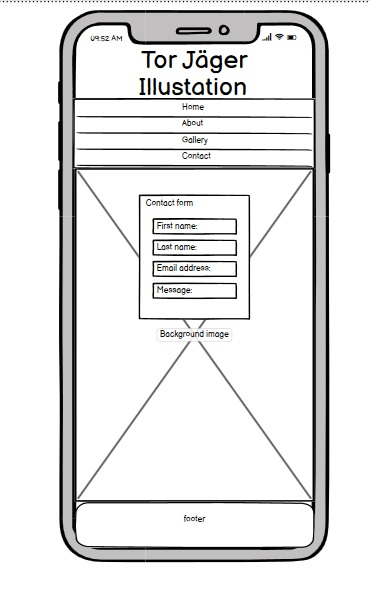
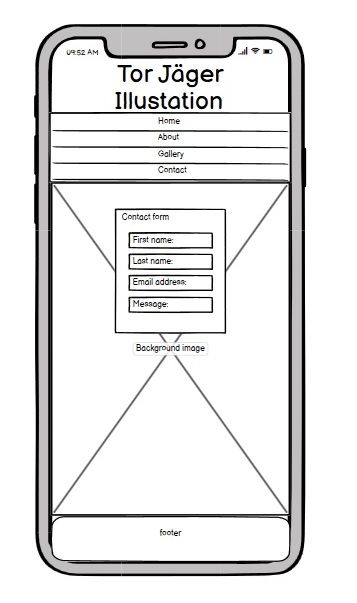
Adjust phone number in footer

diff --git a/contact.html b/contact.html
@@ -68,6 +68,7 @@
         <a href="https://sv-se.facebook.com/vasenboken/" target="_blank" rel="noopener" aria-label="Find us on Facebook (link opens in a new tab)"><i class="fab fa-facebook"></i></a>
         <a href="https://www.instagram.com/torjager/" target="_blank" rel="noopener" aria-label="Find us on Instagram (link opens in a new tab)"><i class="fab fa-instagram"></i></a>
         <a href="https://se.linkedin.com/in/tor-j%C3%A4ger-81718170" target="_blank" rel="noopener" aria-label="Find us on Linkedin (link opens in a new tab)"><i class="fab fa-linkedin"></i></a>
+        <span id="phonenumber">+46 704237879 <i class="fas fa-phone"></i></span>
         <br>
         <p>Copyright © Tor Jäger Illustration 2022</p>
     

diff --git a/gallery.html b/gallery.html
@@ -59,6 +59,7 @@
     <a href="https://sv-se.facebook.com/vasenboken/" target="_blank" rel="noopener" aria-label="Find us on Facebook (link opens in a new tab)"><i class="fab fa-facebook"></i></a>
     <a href="https://www.instagram.com/torjager/" target="_blank" rel="noopener" aria-label="Find us on Instagram (link opens in a new tab)"><i class="fab fa-instagram"></i></a>
     <a href="https://se.linkedin.com/in/tor-j%C3%A4ger-81718170" target="_blank" rel="noopener" aria-label="Find us on Linkedin (link opens in a new tab)"><i class="fab fa-linkedin"></i></a>
+    <span id="phonenumber">+46 704237879 <i class="fas fa-phone"></i></span>
     <br>
     <p>Copyright © Tor Jäger Illustration 2022</p>
 

diff --git a/README.md b/README.md
@@ -1,8 +1,8 @@
 ![Tor Jäger Welcome][def]
 
-# Welcome to Tor Jäger Illustration,  
+# Welcome to Tor Jäger Illustration!
 
-#### This website is created for the freelance illustrator Tor Jäger. The previous website torjager.net/torjager.se really needed some updates and a new fresh apporoach. Tor Jäger is based in Stockholm, Sweden, but clients could come from over the world so the site should be easy to read and inspiering. The goal of this site is to attract and connect with possible customers for illustration jobs, inspire people to read the books but also just inspire peolple who are scrolling through the site.
+#### This website is created for the freelance illustrator Tor Jäger. The previous website torjager.net/torjager.se really needed some updates and a new fresh apporoach. Tor Jäger is based in Stockholm, Sweden, but clients could come from all over the world so the site should be easy to read and inspiering. The goal of this site is to attract and connect with possible customers for illustration jobs, inspire people to read the books but also just inspire peolple who are scrolling through the site.
 #### [Deployed site](https://karasp1980.github.io/torjagerillustration/)
 ------
 ## Responsive
@@ -40,7 +40,7 @@
 ------
 ## Style
 
-#### The colors were chosen in order to have a good contrast between the white and #A43F2D chosen (+ the groove border) in order to make the site easy to read. The readibility was also checked on This site was built using [WebAIM](https://webaim.org/resources/contrastchecker) 
+#### The colors were chosen in order to have a good contrast between the white and #A43F2D chosen (+ the groove border) in order to make the site easy to read. The readibility was also checked on  [WebAIM](https://webaim.org/resources/contrastchecker) 
 ![WebAIM contrastchecker](/assets/images/webaim.png)
 
 ----
@@ -59,7 +59,7 @@
 ![Welcome image](/assets/images/welcome.jpeg)
 
 ### **Books:**
-#### The books-section presents three books which the illustrator has written/illustrated. The purpose should be to inspire to get inspired by a short presentation and get interest in reading these books.
+#### The books-section presents three books which the illustrator has written/illustrated. The purpose should be to get inspired by a short presentation and get interest in reading these books.
 ![Books section](/assets/images/bookssection.jpeg)
 
 ### **About:**
@@ -76,7 +76,7 @@
 
 
 ### **Footer:**
-#### The footer placed in the bottom of the page should also be standing in order for the viewer to easily get contact info. It contains links to the social media platforms facebook, instagram and linkedin as well as phone number.
+#### The footer placed in the bottom of the page should also be standing out in order for the viewer to easily get contact info. It contains links to the social media platforms facebook, instagram and linkedin as well as phone number.
 ![Footer](/assets/images/footer.jpg)
 
 -------
@@ -89,11 +89,6 @@
 #### I confirmed that the navigaton, header, about, gallery and contact are all readable and easy to understand.
 
 #### I confirmed that the form works requires entries in every field, will only accept one email in the email field and the submit buttom works.
-
--------
-
-## Bugs
-#### No bugs were noticed.
 
 ------
 
@@ -130,15 +125,6 @@ The link can be found here: [Deployed site](https://karasp1980.github.io/torjage
 
 -----
 
-## Credits
-
-#### A lot of content is reused from torjager.se/torjager.net, for instance som pictures and the about-text. Furhter material/pictures has been provided from the illustrator himself who has also given his appproval of using the material for this project. Some of the pictures are also published in his books.
-#### Inspiration and help has also come from the Code Institute projects "Coders coffeehouse" (https://learn.codeinstitute.net/sandbox/api/challenges/60338cca9c4983ac5d855130/files/index.html#home) and "Love Running" (https://karasp1980.github.io/love-running/).
-
-#### The website [W3Schools](https://www.w3schools.com/) has also been helpful.
-
-----
-
 ## Content
 
 #### The pictures on the site and in the gallery has been chosen in order to provide a variety of styles.
@@ -148,9 +134,18 @@ The link can be found here: [Deployed site](https://karasp1980.github.io/torjage
 
 ## Media
 
-#### All the images on this page are provided by the illustator Tor Jäger For the social media-links icons [Font Awesome](https://fontawesome.com) has been used.
+#### All the images on this page are provided by the illustator Tor Jäger For the social media-links icons [Font Awesome](https://fontawesome.com) has been used. The fonts come from [Google fonts](fonts.google.com).
 
 -----
+
+## Credits
+
+#### A lot of content is reused from torjager.se/torjager.net, for instance som pictures and the about-text. Furhter material/pictures has been provided from the illustrator Tor Jäger who has also given his appproval of using the material for this project. Some of the pictures are also published in his books.
+#### Inspiration and help has also come from the Code Institute projects [Coders coffeehouse](https://learn.codeinstitute.net/sandbox/api/challenges/60338cca9c4983ac5d855130/files/index.html#home) and [Love Running](https://karasp1980.github.io/love-running/).
+
+#### The website [W3Schools](https://www.w3schools.com/) has also been helpful.
+
+----
 
 
 [def]: ./assets/images/ww1full.jpeg
